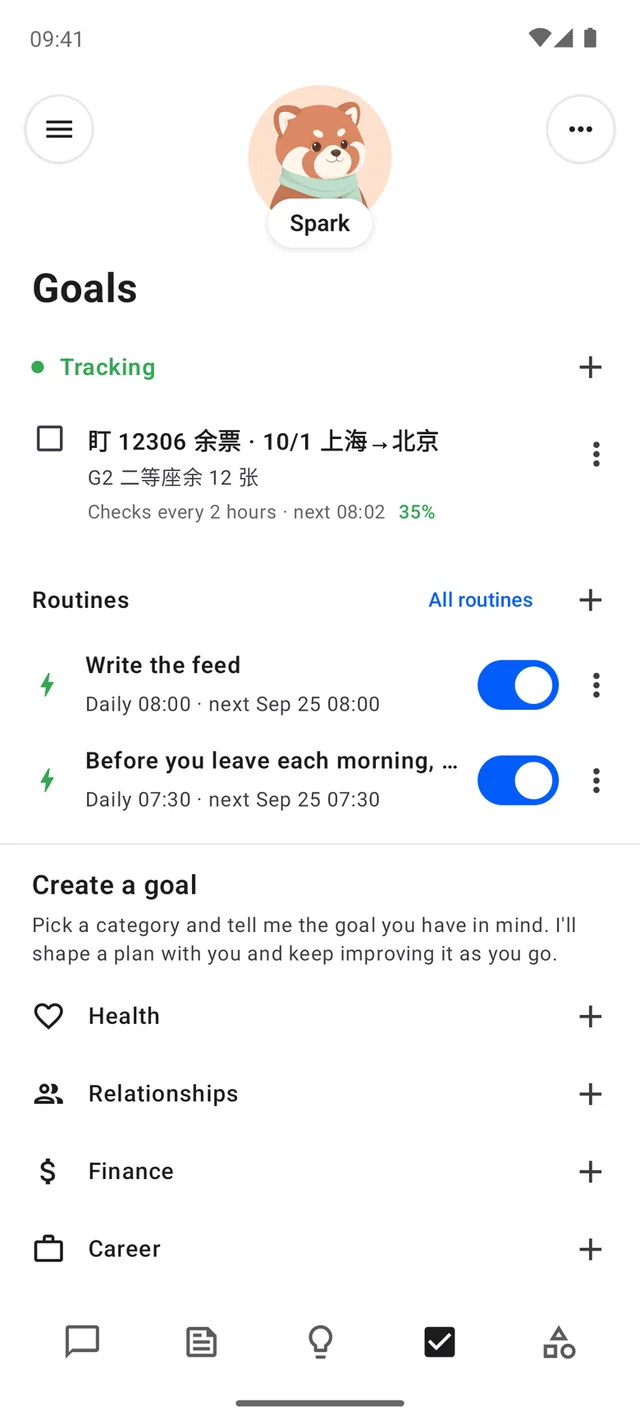
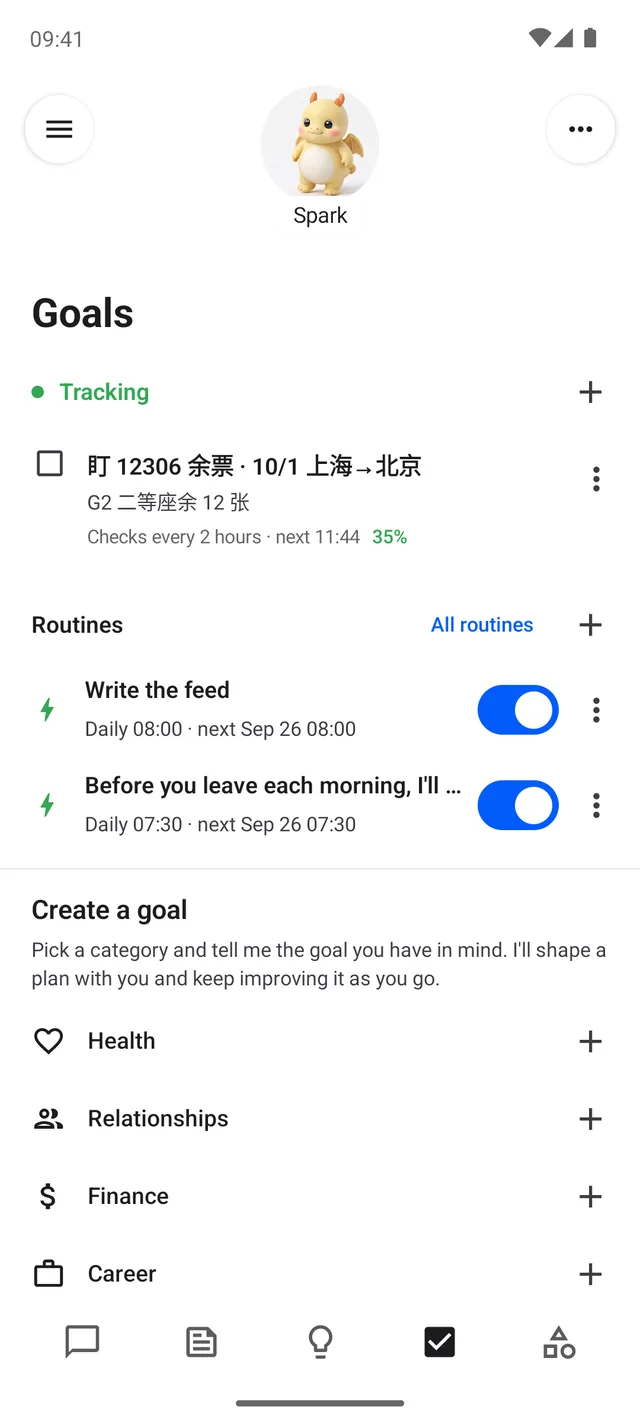
Site: 0.1.11 Hatch is the current version; the dragon in the strip and screenshots

diff --git a/index.html b/index.html
@@ -65,13 +65,13 @@
           </a>
         </div>
         <p class="fine">
-          <i class="en">Android 8.0 or newer, arm64 · alpha 0.1.10 · every version is signed with the same key and installs over the last.</i>
-          <i class="zh">Android 8.0 以上，arm64 · alpha 0.1.10 · 每个版本同一把签名，覆盖安装即可升级。</i>
+          <i class="en">Android 8.0 or newer, arm64 · alpha 0.1.11 · every version is signed with the same key and installs over the last.</i>
+          <i class="zh">Android 8.0 以上，arm64 · alpha 0.1.11 · 每个版本同一把签名，覆盖安装即可升级。</i>
         </p>
       </section>
 
       <figure class="moods">
-        <img src="assets/moods.webp" alt="The same red panda in five poses: at rest, working at a laptop with headphones, looking up with a question mark, hugging a star, and with a sweat drop" width="1696" height="320" loading="eager" />
+        <img src="assets/moods.webp" alt="The same small dragon in five poses: at rest, working at a laptop with headphones, holding a crystal ball, raising a star, and with a sweat drop" width="1696" height="320" loading="eager" />
         <figcaption>
           <i class="en">One face, drawn by your own image model, posed for every state — at rest, working, waiting for you, pleased, sorry.</i>
           <i class="zh">一张脸，由你自己的图像模型画出，为每种状态摆好姿势——休息、工作、等你、开心、抱歉。</i>
@@ -184,7 +184,8 @@
           <li><a href="https://github.com/nano-muse/nanoMuse/releases/tag/v0.1.7" rel="noopener">0.1.7</a><span class="name">Welcome</span><span class="what"><i class="en">The first run: a welcome screen with the three steps — provider, its models, meet the agent.</i><i class="zh">第一次运行：欢迎页带三步——服务商、它的模型、认识它。</i></span></li>
           <li><a href="https://github.com/nano-muse/nanoMuse/releases/tag/v0.1.8" rel="noopener">0.1.8</a><span class="name">Polish</span><span class="what"><i class="en">The shell level with Muse's: type, the composer pill, only the name under the face, Muse's settings pages.</i><i class="zh">壳子对齐 Muse：字体排印、胶囊输入框、脸下只有名字、Muse 样式的设置页。</i></span></li>
           <li><a href="https://github.com/nano-muse/nanoMuse/releases/tag/v0.1.9" rel="noopener">0.1.9</a><span class="name">Portrait</span><span class="what"><i class="en">The face, Muse's way: "change your avatar to…" in the chat, four takes, poses, a share card; the agent's page behind the face; five avatar sizes.</i><i class="zh">换脸照 Muse 的路：对话里说「把虚拟形象换成…」，四张候选、姿势、分享卡；点脸进它的资料页；形象大小五档。</i></span></li>
-          <li class="current"><a href="https://github.com/nano-muse/nanoMuse/releases/tag/v0.1.10" rel="noopener">0.1.10</a><span class="name">Motion</span><span class="what"><i class="en">The three models named — chat, image, video — in Settings and in what the agent knows; with a video model the face gets a looping clip per state; pictures and clips on request.</i><i class="zh">三个模型说清楚——对话、图像、视频——在设置里，也在它自己知道的事里；设了视频模型，每个状态一段循环短片；按需生图生视频。</i></span></li>
+          <li><a href="https://github.com/nano-muse/nanoMuse/releases/tag/v0.1.10" rel="noopener">0.1.10</a><span class="name">Motion</span><span class="what"><i class="en">The three models named — chat, image, video — in Settings and in what the agent knows; with a video model the face gets a looping clip per state; pictures and clips on request.</i><i class="zh">三个模型说清楚——对话、图像、视频——在设置里，也在它自己知道的事里；设了视频模型，每个状态一段循环短片；按需生图生视频。</i></span></li>
+          <li class="current"><a href="https://github.com/nano-muse/nanoMuse/releases/tag/v0.1.11" rel="noopener">0.1.11</a><span class="name">Hatch</span><span class="what"><i class="en">The built-in dragon, stills and clips in the APK; the first conversation read by the chat model, its own names in your language; one Model Studio key for all three models, or a provider per model.</i><i class="zh">内置小龙，静态图和短片都在 APK 里；第一次对话由对话模型来读，给自己提的名字跟着你的语言；一把百炼 key 跑三个模型，或者每个模型各接一个平台。</i></span></li>
           <li class="next"><span class="ver">0.2.0</span><span class="name">Beta</span><span class="what"><i class="en">Polish from the first weeks of use; the first beta.</i><i class="zh">头几周使用后的打磨；第一个 beta。</i></span></li>
         </ol>
         <p class="more">
